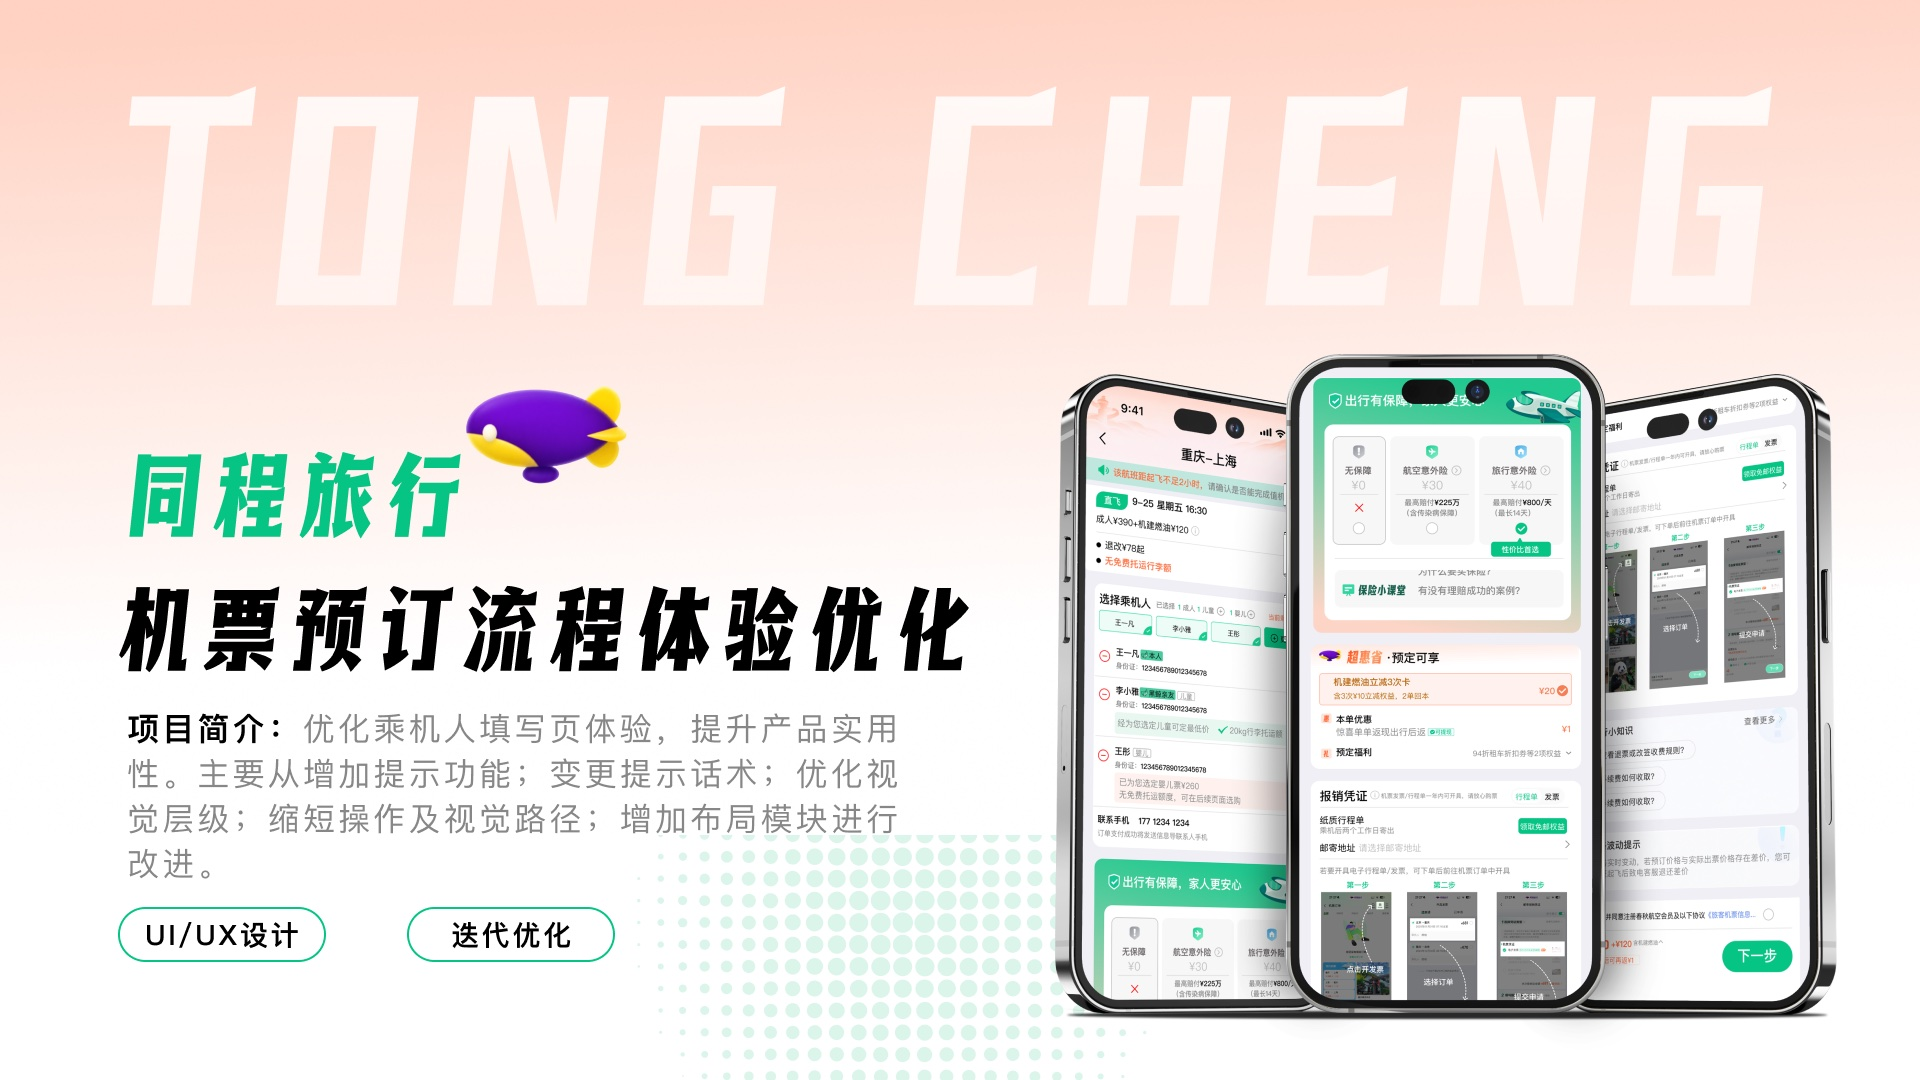
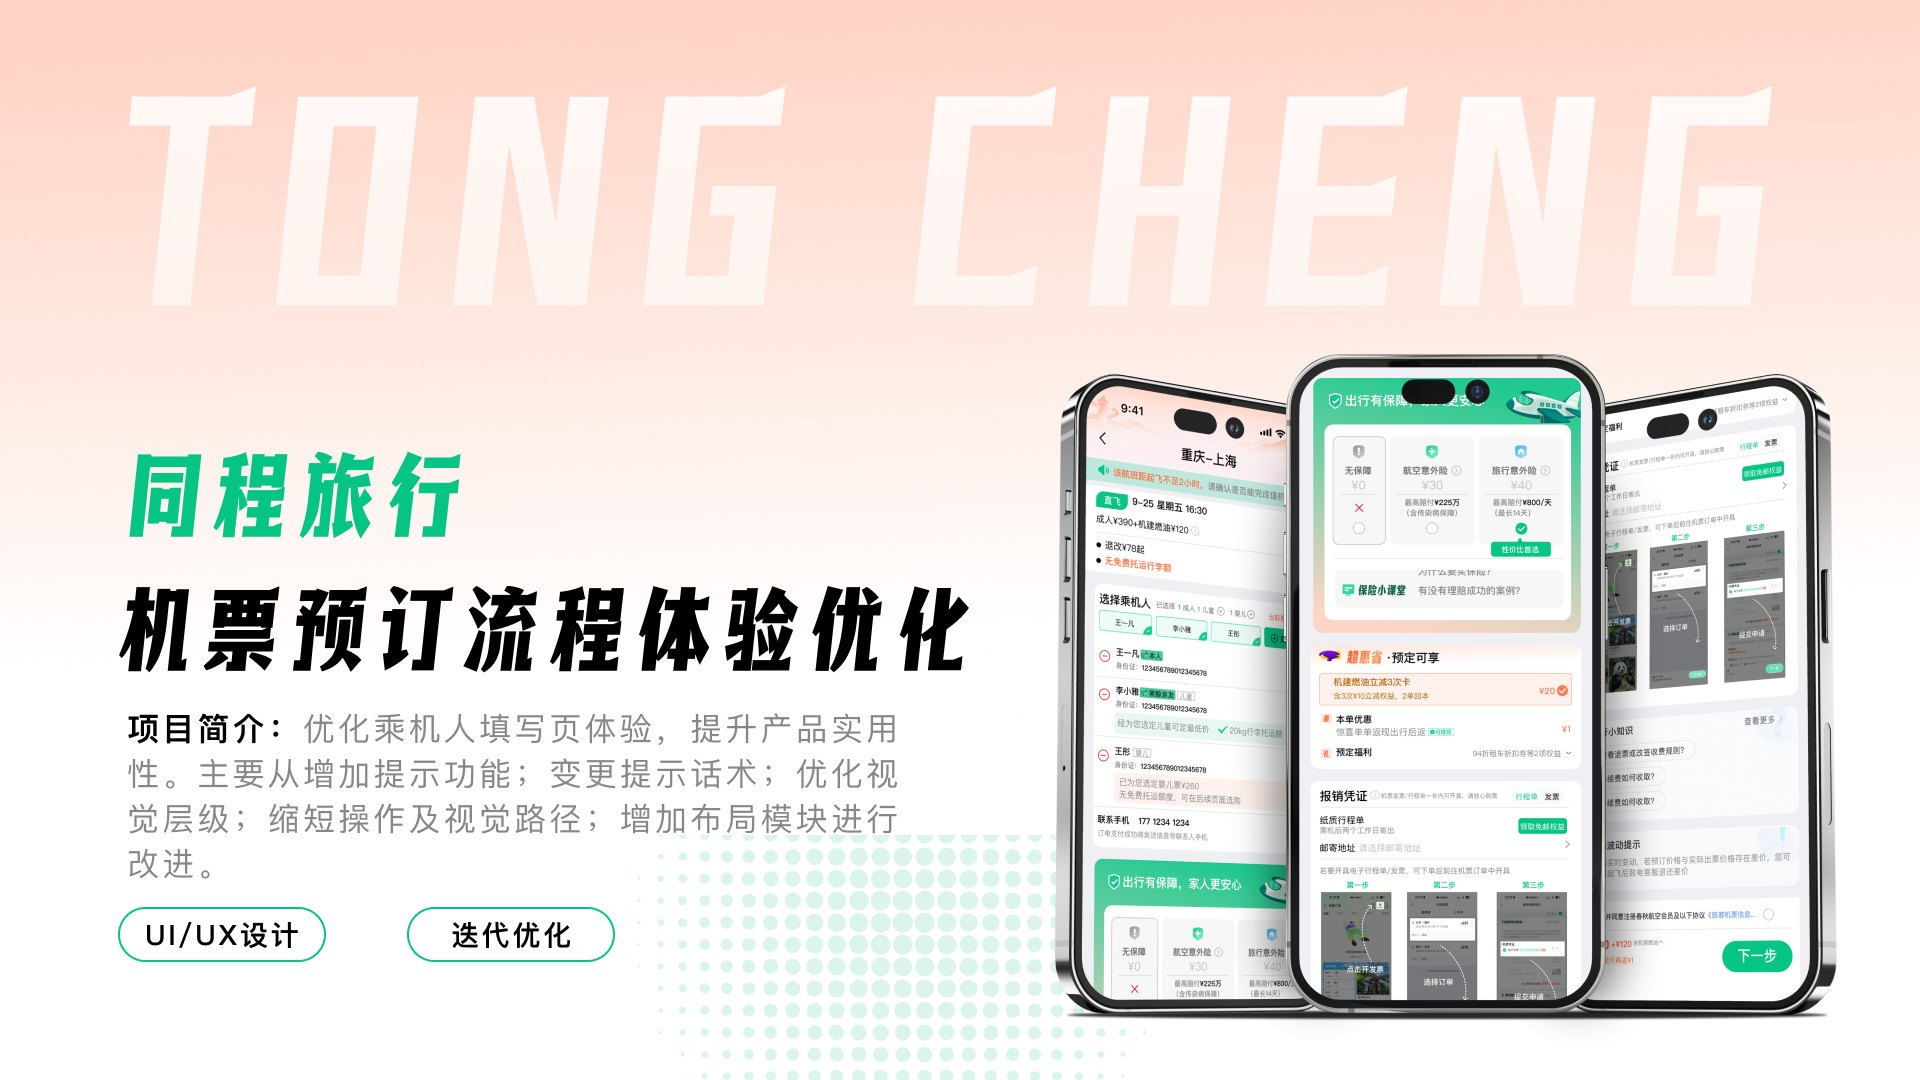
同程旅行: update the cover (2.1) and 用户分析 (2.4) slides, refresh the home card cover

Changed region(s): [[0.2188, 0.3361, 0.3438, 0.4583]]

diff --git a/project-tongcheng.html b/project-tongcheng.html
@@ -51,10 +51,10 @@
   <main class="detail-main">
     <!-- Detail page images, stacked top to bottom -->
     <div class="detail-pages">
-      <img src="src/projects/tongcheng/01.jpg?v=1" alt="封面 · 同程旅行 机票预订流程体验优化" width="1920" height="1080" style="view-transition-name: tongcheng-cover" />
+      <img src="src/projects/tongcheng/01.jpg?v=2" alt="封面 · 同程旅行 机票预订流程体验优化" width="1920" height="1080" style="view-transition-name: tongcheng-cover" />
       <img src="src/projects/tongcheng/02.jpg?v=1" alt="项目背景" width="1920" height="1080" decoding="async" />
       <img src="src/projects/tongcheng/03.jpg?v=1" alt="产品现状" width="1920" height="1080" loading="lazy" decoding="async" />
-      <img src="src/projects/tongcheng/04.jpg?v=1" alt="用户分析" width="1920" height="1080" loading="lazy" decoding="async" />
+      <img src="src/projects/tongcheng/04.jpg?v=2" alt="用户分析" width="1920" height="1080" loading="lazy" decoding="async" />
       <img src="src/projects/tongcheng/05.jpg?v=1" alt="用户反馈" width="1920" height="1080" loading="lazy" decoding="async" />
       <img src="src/projects/tongcheng/06.jpg?v=1" alt="用户旅程图" width="1920" height="1080" loading="lazy" decoding="async" />
       <img src="src/projects/tongcheng/07.jpg?v=1" alt="竞品分析" width="1920" height="1080" loading="lazy" decoding="async" />

diff --git a/index.html b/index.html
@@ -257,7 +257,7 @@
         </li>
         <li class="project-card" data-aos="fade-up" data-aos-delay="100">
           <div class="project-card-media">
-            <img src="src/jpg/tongcheng-cover.jpg?v=1" alt="同程旅行 机票预订流程体验优化 封面" loading="lazy" style="view-transition-name: tongcheng-cover" />
+            <img src="src/jpg/tongcheng-cover.jpg?v=2" alt="同程旅行 机票预订流程体验优化 封面" loading="lazy" style="view-transition-name: tongcheng-cover" />
           </div>
           <div class="project-card-body">
             <div class="project-card-head">
